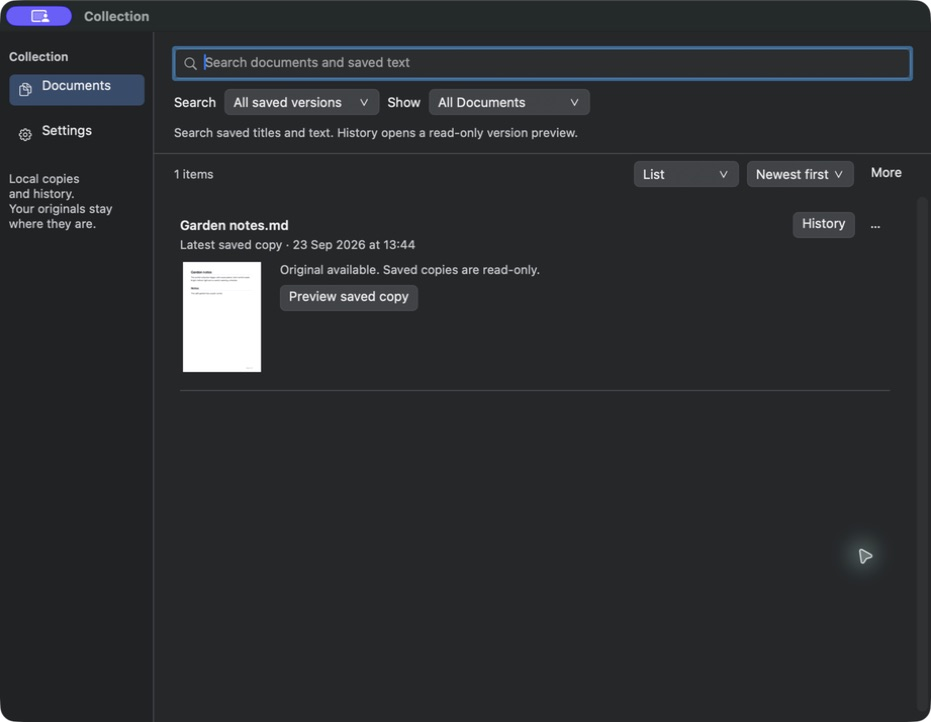
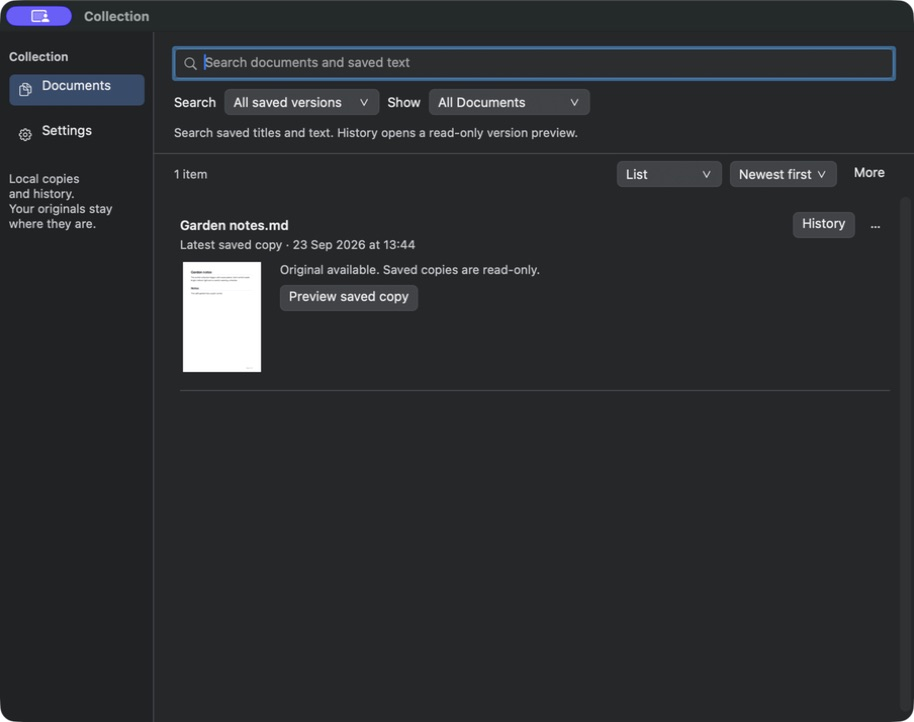
Record final Collection validation and prepared release

diff --git a/portable/docs/journals/collection-implementation/action-journal.md b/portable/docs/journals/collection-implementation/action-journal.md
@@ -288,3 +288,12 @@ The two minor residuals were corrected after the live review: one result now use
 ![Corrected History row corners and actual read-only PDF preview](assets/history-rounded-headless.png)
 
 The [technical round-three report](native-technical-review-round-3.md) and [UX round-three report](native-ux-review-round-3.md) give evidence and coverage limits. Live review used generated files, a separate bundle identifier and isolated state. The installed app and personal Collection were untouched. Live light appearance, completed relocation/export and destructive cleanup were not exercised; automated store tests cover cleanup and protected-cap refusal.
+
+
+### Final validation and prepared release
+
+The final isolated candidate received a targeted live follow-up after the two polish fixes: the selected earlier version and page restored in a fresh process, both History selection corners are visible, and Documents reports “1 item.” The final Documents and History images above now show that candidate. The UX acceptance remains **9.2/10**.
+
+The complete release preparation exited **0** on 23 September 2026: **54 discovered test targets** passed, including all 23 native Markdown/UI integration suites and 56 release-workflow checks. The final native app build exited 0; the source-size ratchet passed for 1,034 maintained files and 35 exact caps. Release notes passed strict validation. Release **26.9.23-1** was prepared on `codex/collection-history-release` in commit `9234a1dbd`; no tag, push, signing for distribution, notarization or publication was performed.
+
+The journal is opened in the final isolated candidate using its separate generated-fixture state. The installed ShenzhenPDF application is unchanged.

diff --git a/portable/docs/journals/collection-implementation/native-ux-review-round-3.md b/portable/docs/journals/collection-implementation/native-ux-review-round-3.md
@@ -48,3 +48,8 @@ Neither residual prevents finding a document, identifying its revision, navigati
 Round two already exercised actual export-sheet cancellation, all secondary menu actions' availability, protected-cap refusal, explicit cleanup review/cancellation and restoration of fixture Keep. It also confirmed the resize fix preserves the highlighted matching sentence in a shortened History viewport. Those flows were not needlessly repeated after the targeted changes.
 
 I inspected app menus for a local Collection appearance switch. They expose a reader theme switch, not a Collection UI appearance override; I did not change the Mac's global appearance. Live light-appearance review remains outside coverage. Live PDF History, completed comparison rendering, completed relocation/export, destructive cleanup, exhaustive keyboard traversal and a same-bundle quit/relaunch cycle also remain outside this review. Fresh-process persisted destination restoration and actual on-disk cap persistence were observed. The accepted **9.2 / 10** reflects the exercised native experience and stated limits, not exhaustive product validation.
+
+
+## Final candidate polish follow-up
+
+After the two minor fixes, the critic launched the separate V4 candidate and confirmed the earlier version and Page 2 restored in a fresh process. Both right selection corners render fully; a single Documents result reads **1 item**. Both minor residuals above are closed. This targeted live follow-up leaves the **9.2/10** acceptance unchanged. The final Documents and History images in the action journal reflect V4.

diff --git a/readme.md b/readme.md
@@ -33,7 +33,7 @@ ShenzhenPDF opens PDFs (and more) instantly, keeps documents in tidy tabs, and d
 
 ## Collection and history <sub>macOS</sub>
 
-<p align="center"><img src="docs/images/portable/macos-collection.png" alt="Collection showing dated document versions, thumbnail selection, recovery actions and local storage settings" width="880"></p>
+<p align="center"><img src="docs/images/portable/macos-collection.jpg" alt="Collection showing integrated search with page thumbnails, highlighted context and direct History actions" width="880"></p>
 
 - **Keep local copies and history** — choose at first use, then continue opening the originals. Protected versions stay read-only; copies and history can be turned off in Settings.
 - **Find and recover documents** — <kbd>Cmd+K</kbd> searches open names, groups, open text, and Collection. Use `col:` for Collection alone. A missing original can be recovered from its protected copy or located by an exact content match.
